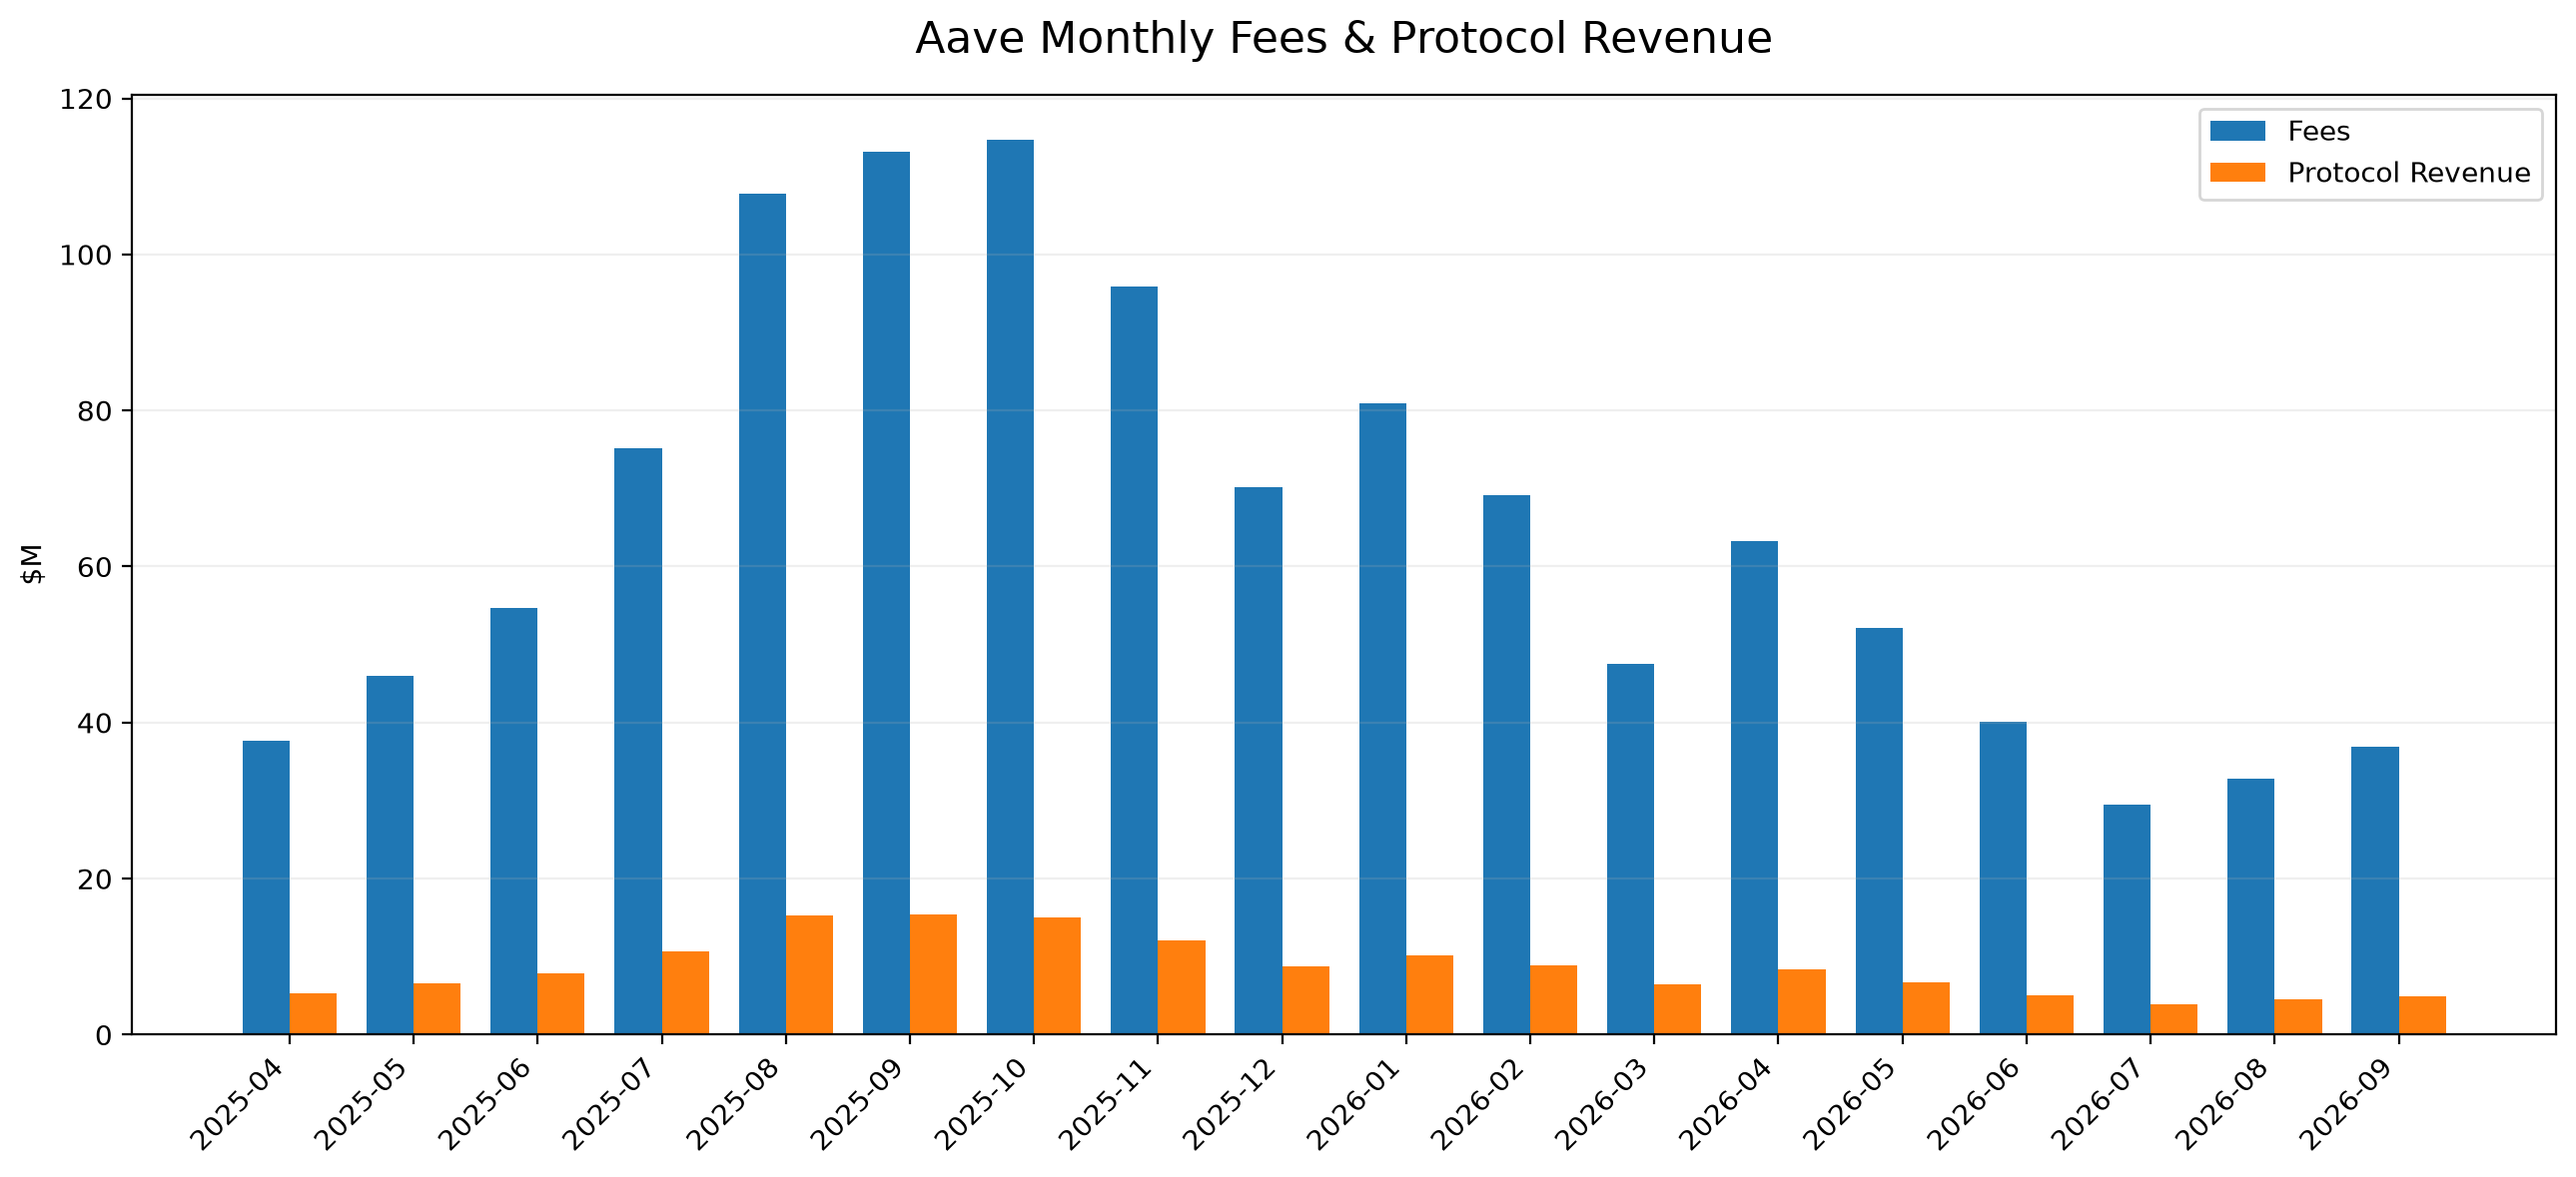
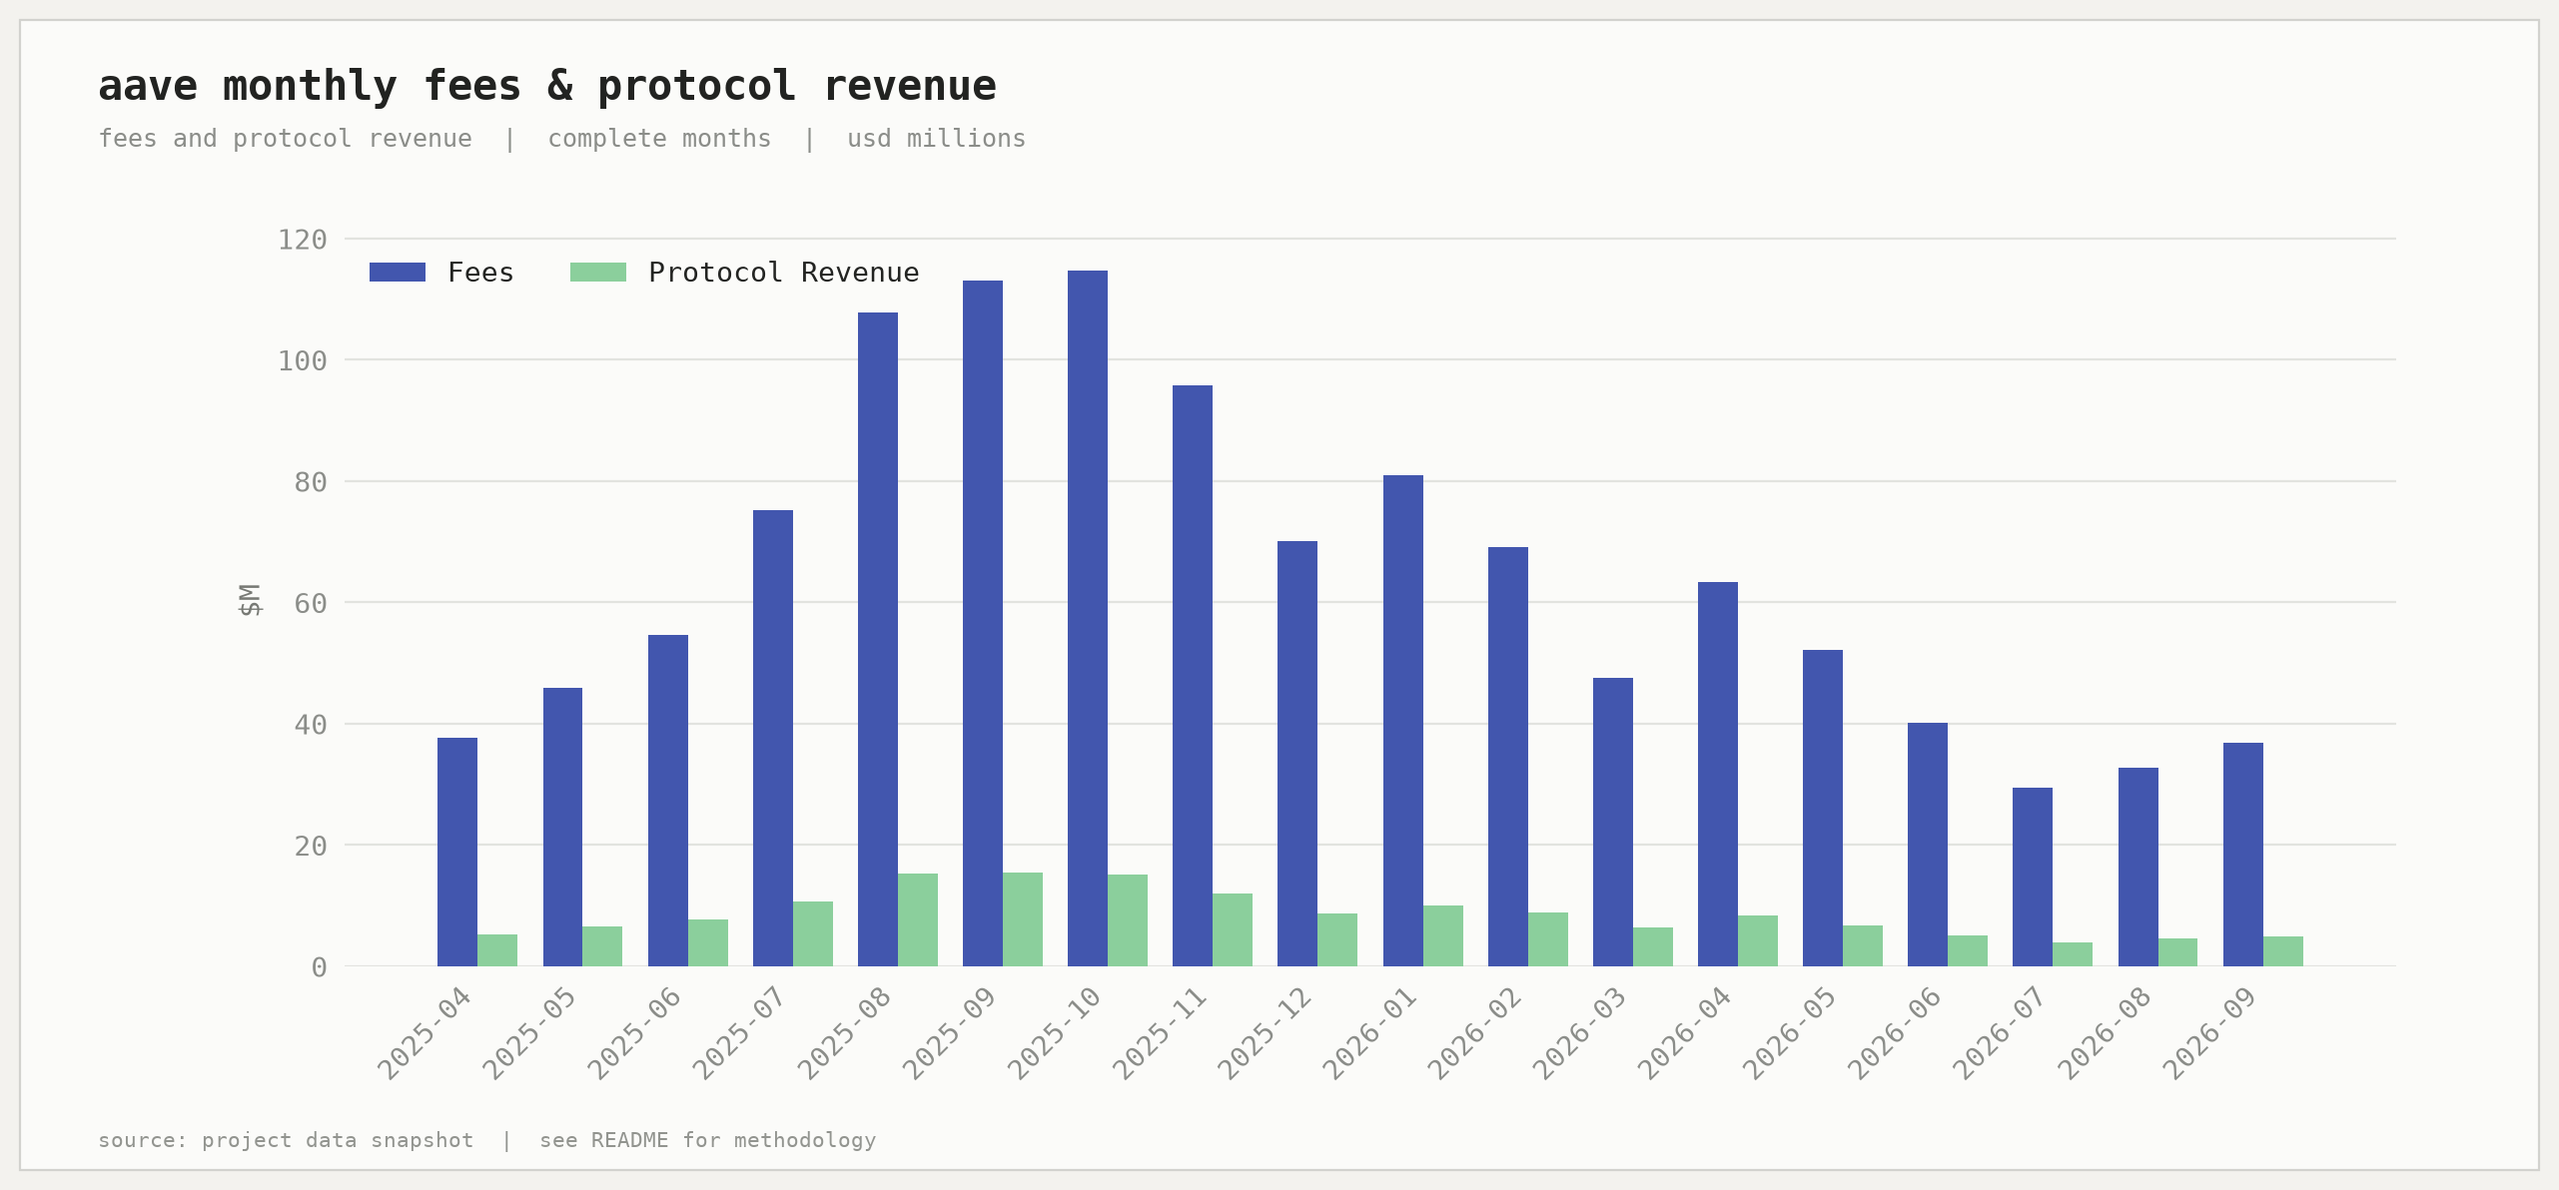
Redesign Aave research charts

diff --git a/src/create_charts.py b/src/create_charts.py
@@ -3,6 +3,8 @@ import json
 
 import matplotlib.pyplot as plt
 import pandas as pd
+from matplotlib.patches import Rectangle
+from matplotlib.colors import LinearSegmentedColormap
 
 
 # ============================================================
@@ -20,6 +22,37 @@ PEER_VALUATION_PATH = "data/processed/lending_peer_valuation.csv"
 TOKEN_PATH = "data/raw/aave_token_data.json"
 
 CHARTS_DIR = Path("charts")
+
+plt.rcParams.update({
+    "font.family": "DejaVu Sans Mono", "font.size": 10,
+    "axes.axisbelow": True, "axes.labelcolor": "#777974",
+    "xtick.color": "#8b8d89", "ytick.color": "#8b8d89",
+    "text.color": "#222321",
+    "axes.prop_cycle": plt.cycler(color=["#4256ae", "#8bcf9c"]),
+})
+
+
+def style_chart(fig, ax, subtitle):
+    """Apply the shared research chart layout."""
+    title = ax.get_title().lower()
+    ax.set_title("")
+    fig.set_facecolor("#f3f2ee")
+    fig.add_artist(Rectangle((0.015, 0.02), 0.97, 0.96,
+        transform=fig.transFigure, facecolor="#fbfbf9",
+        edgecolor="#d2d2ce", linewidth=0.8, zorder=-10))
+    ax.set_facecolor("none")
+    for spine in ax.spines.values():
+        spine.set_visible(False)
+    ax.tick_params(length=0, pad=6)
+    if not ax.images:
+        for line in ax.get_xgridlines() + ax.get_ygridlines():
+            line.set_color("#e2e3df")
+            line.set_alpha(1)
+    fig.text(0.045, 0.94, title, fontsize=15, weight="bold", va="top")
+    fig.text(0.045, 0.89, subtitle, fontsize=9, color="#8b8d89", va="top")
+    fig.text(0.045, 0.035, "source: project data snapshot  |  see README for methodology",
+             fontsize=7.5, color="#92948f", va="bottom")
+    fig.subplots_adjust(left=0.14, right=0.93, top=0.80, bottom=0.19)
 
 
 # ============================================================
@@ -78,6 +111,8 @@ def create_tvl_chart():
     )
 
     fig.tight_layout()
+
+    style_chart(fig, ax, 'historical total value locked  |  usd billions')
 
     output = (
         CHARTS_DIR
@@ -232,7 +267,7 @@ def create_monthly_economics_chart():
         ha="right",
     )
 
-    ax.legend()
+    ax.legend(frameon=False, loc="upper left", ncol=2)
 
     ax.grid(
         axis="y",
@@ -240,6 +275,8 @@ def create_monthly_economics_chart():
     )
 
     fig.tight_layout()
+
+    style_chart(fig, ax, 'fees and protocol revenue  |  complete months  |  usd millions')
 
     output = (
         CHARTS_DIR
@@ -366,6 +403,8 @@ def create_borrow_composition_chart():
 
     fig.tight_layout()
 
+    style_chart(fig, ax, 'ethereum v3 reserves  |  share of borrowed assets')
+
     output = (
         CHARTS_DIR
         / "aave_borrow_composition.png"
@@ -444,6 +483,8 @@ def create_peer_productivity_chart():
         )
 
     fig.tight_layout()
+
+    style_chart(fig, ax, 'annualized 30-day fees / current tvl  |  percent')
 
     output = (
         CHARTS_DIR
@@ -528,6 +569,8 @@ def create_peer_valuation_chart():
         )
 
     fig.tight_layout()
+
+    style_chart(fig, ax, 'fully diluted valuation / annualized 30-day fees')
 
     output = (
         CHARTS_DIR
@@ -622,6 +665,7 @@ def create_valuation_sensitivity_chart():
     image = ax.imshow(
         sensitivity,
         aspect="auto",
+        cmap=LinearSegmentedColormap.from_list("research", ["#e4eee8", "#8bcf9c", "#4256ae"]),
     )
 
     ax.set_title(
@@ -686,6 +730,7 @@ def create_valuation_sensitivity_chart():
                 ha="center",
                 va="center",
                 fontsize=9,
+                color="white" if price > max(map(max, sensitivity)) * 0.62 else "#202622",
             )
 
     # --------------------------------------------------------
@@ -707,9 +752,9 @@ def create_valuation_sensitivity_chart():
 
     fig.text(
         0.5,
-        0.01,
+        0.075,
         (
-            f"Current AAVE price: "
+            f"Snapshot AAVE price: "
             f"${current_price:.2f}"
         ),
         ha="center",
@@ -724,6 +769,8 @@ def create_valuation_sensitivity_chart():
             1,
         ]
     )
+
+    style_chart(fig, ax, 'scenario model  |  annual revenue and revenue multiple')
 
     output = (
         CHARTS_DIR
